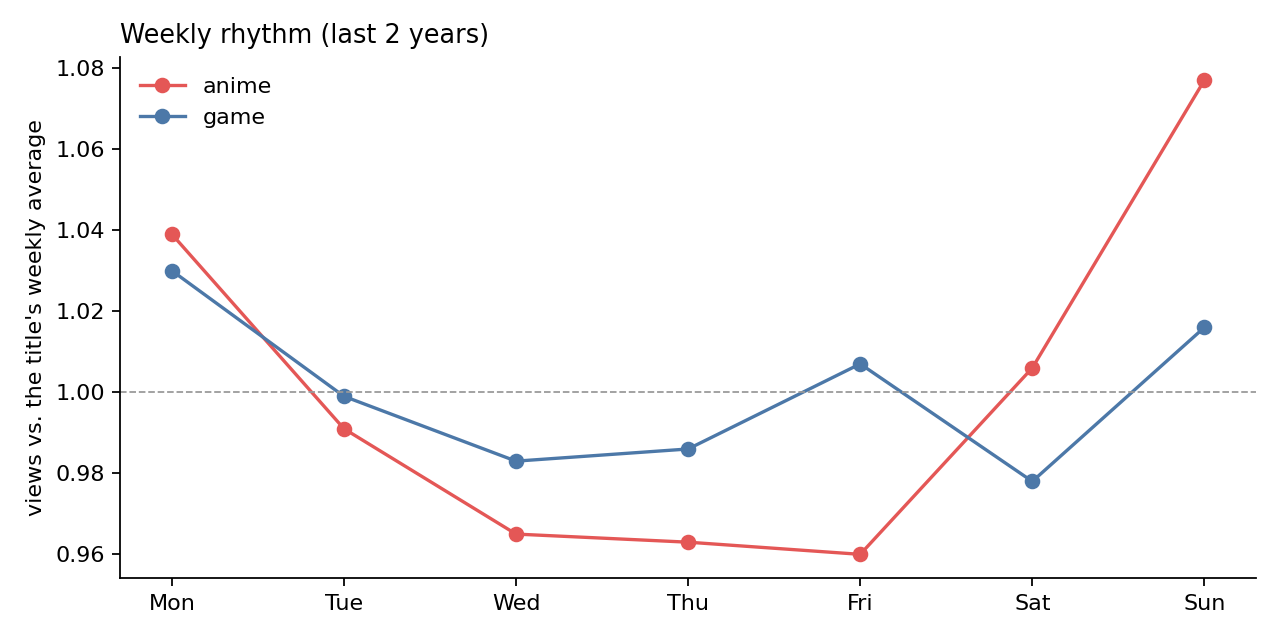
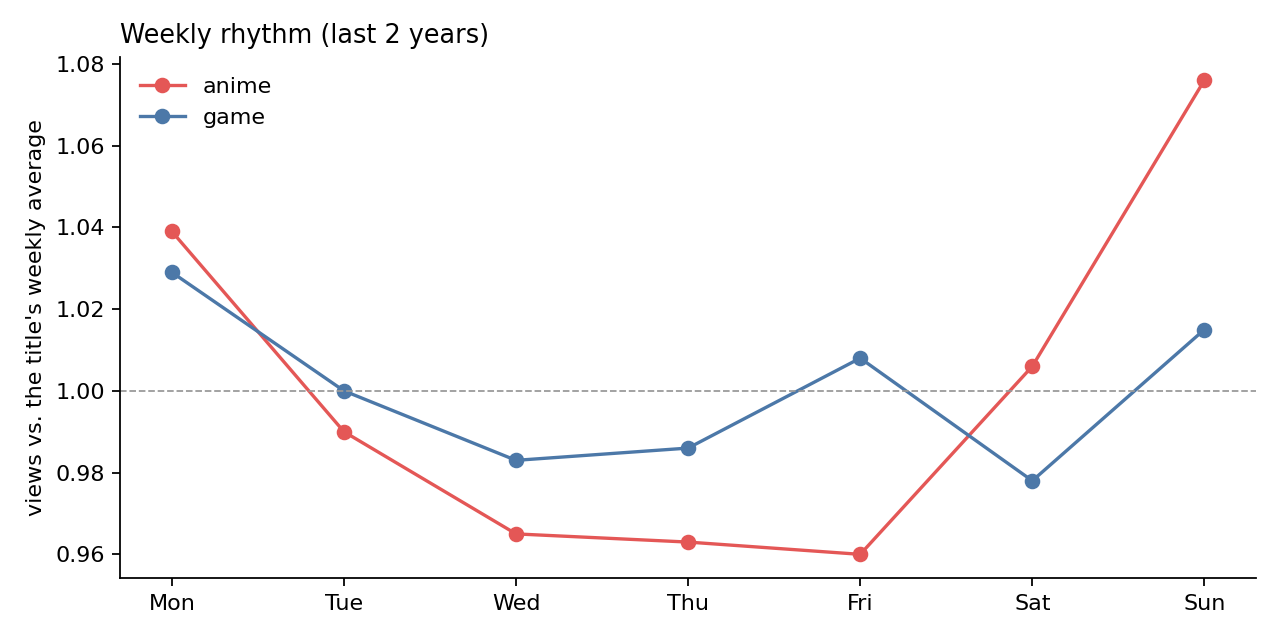
Refresh results to 17 Nov 2026; README: automated refresh section

diff --git a/README.md b/README.md
@@ -5,6 +5,8 @@
 ![Decay curves](results/decay_curves.png)
 
 ## Findings (36 hand-picked titles, English Wikipedia, Jan 2020 – Nov 2026)
+*Numbers below are from the 14 Nov 2026 snapshot. The `results/` folder is refreshed automatically every week (see [Automated refresh](#automated-refresh)).*
+
 | | Titles | Median half-life | Attention kept after 90 days | after 365 days |
 |---|---|---|---|---|
 | **Anime** | 16 | **17 days** | **24.5%** | 11.3% |
@@ -39,6 +41,21 @@ SQL highlights:
 - **Weekday normalisation** against each title's own weekly mean (`05`).
 
 The SQL is **tested**: `tests/test_sql.py` runs the real models on a synthetic series whose peak, half-life and gap-filling results are known in advance.
+
+## Automated refresh
+A GitHub Actions workflow (`.github/workflows/refresh.yml`) re-runs the whole pipeline every Monday and commits the new results, so the marts and charts stay current without manual work.
+
+```
+ingest (yesterday's data) ──► quality gate ──► DuckDB SQL marts ──► charts ──► commit results/
+                               fails? nothing is published
+```
+The **quality gate** (`src/hype/check.py`) compares the fresh extract with the last published summary (`results/refresh.json`) and stops the run if:
+- a title disappeared,
+- the extract shrank (history should only grow),
+- the newest day is more than 4 days old (API lag or a silently truncated download),
+- there are duplicate rows or negative counts.
+
+A bad API day therefore leaves the last good results in place instead of overwriting them. The gate has its own tests (`tests/test_check.py`), and the separate `ci.yml` workflow runs all tests on every push.
 
 ## Reproduce
 ```bash
